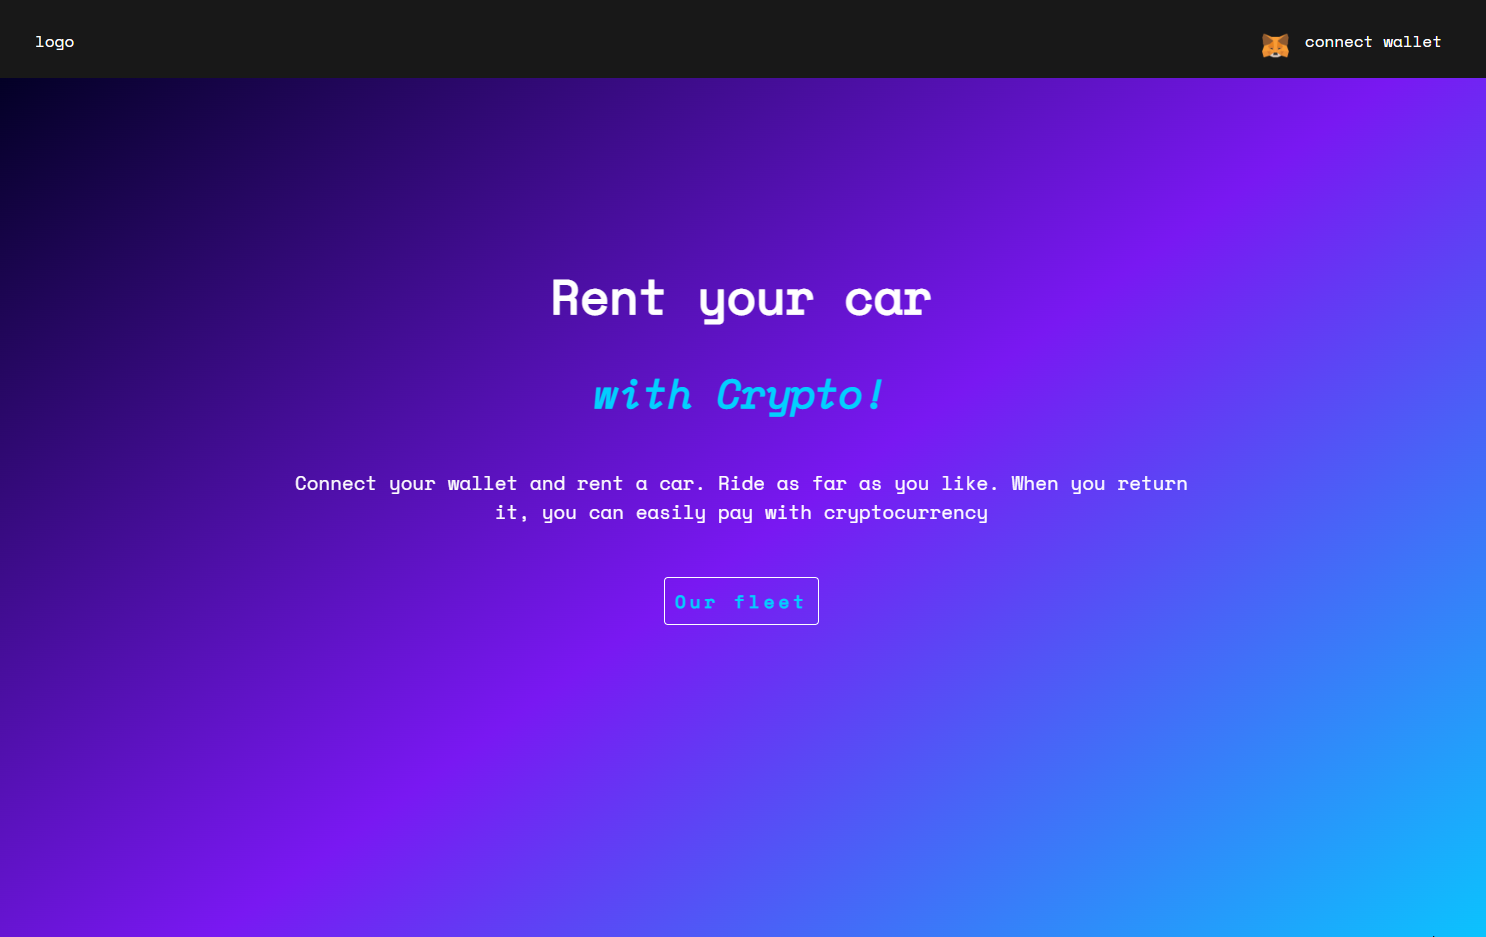
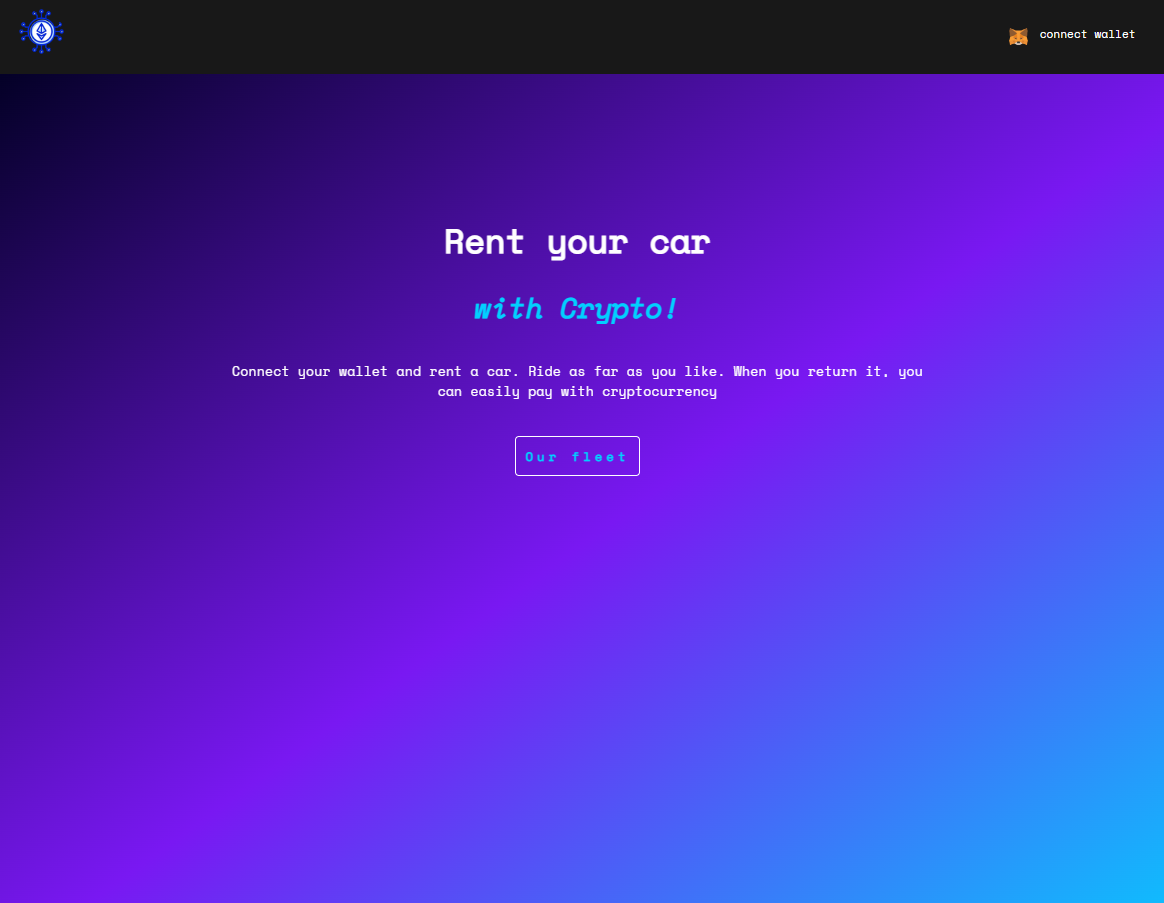
Ready for smart contract integration frontend

diff --git a/frontend/src/components/DashboardFleet.js b/frontend/src/components/DashboardFleet.js
@@ -2,6 +2,9 @@ import "./DashboardFleet.scss";
 import vwPolo from "../assets/vwPolo.png";
 import tucson from "../assets/tucson.png";
 import corolla from "../assets/corolla.png";
+import gear from "../assets/gear.png";
+import AirlineSeatReclineExtraIcon from "@mui/icons-material/AirlineSeatReclineExtra";
+import LuggageIcon from "@mui/icons-material/Luggage";
 
 export default function DashboardFleet() {
   return (
@@ -11,9 +14,16 @@ export default function DashboardFleet() {
           <img className='car-img' src={vwPolo} alt='vw Polo' />
           <div className='car-description'>
             <ul>
-              <li>5 seats</li>
-              <li>manual gear</li>
-              <li> 1 big bag</li>
+              <li>
+                <AirlineSeatReclineExtraIcon />5 seats
+              </li>
+              <li>
+                <img className='gear-icon' src={gear} alt='gear icon' />
+                manual
+              </li>
+              <li>
+                <LuggageIcon />1 bag
+              </li>
             </ul>
           </div>
           <div className='button-box'>
@@ -29,16 +39,23 @@ export default function DashboardFleet() {
           <img className='car-img' src={tucson} alt='hyundai tucson' />
           <div className='car-description'>
             <ul>
-              <li>5 seats</li>
-              <li>manual gear</li>
-              <li>2 big bag</li>
+              <li>
+                <AirlineSeatReclineExtraIcon />5 seats
+              </li>
+              <li>
+                <img className='gear-icon' src={gear} alt='gear icon' />
+                manual
+              </li>
+              <li>
+                <LuggageIcon />2 bags
+              </li>
             </ul>
           </div>
-          <div className='button-box'>
-            <button className='button-class form-deposit-button' type='submit'>
+          <div className='button-box '>
+            <button className='button-class rent-car-button' type='submit'>
               Pick Up
             </button>
-            <button className='button-class form-deposit-button' type='submit'>
+            <button className='button-class rent-car-button' type='submit'>
               Drop off
             </button>
           </div>
@@ -48,16 +65,23 @@ export default function DashboardFleet() {
 
           <div className='car-description'>
             <ul>
-              <li>5 seats</li>
-              <li>automate gear</li>
-              <li>1 big bag</li>
+              <li>
+                <AirlineSeatReclineExtraIcon />5 seats
+              </li>
+              <li>
+                <img className='gear-icon' src={gear} alt='gear icon' />
+                automatic
+              </li>
+              <li>
+                <LuggageIcon className='luggage' />1 bag
+              </li>
             </ul>
           </div>
           <div className='button-box'>
-            <button className='button-class form-deposit-button' type='submit'>
+            <button className='button-class rent-car-button' type='submit'>
               Pick Up
             </button>
-            <button className='button-class form-deposit-button' type='submit'>
+            <button className='button-class rent-car-button' type='submit'>
               Drop off
             </button>
           </div>

diff --git a/frontend/src/components/DashboardFleet.scss b/frontend/src/components/DashboardFleet.scss
@@ -1,7 +1,9 @@
+@import "../App.scss";
 .dashboard-fleet {
   position: relative;
   max-width: 100%;
   max-height: 100%;
+  margin-bottom: 2rem;
   .fleet-container {
     max-width: 100%;
     display: flex;
@@ -12,17 +14,55 @@
     .car-container {
       display: flex;
       width: 25%;
-      //   border: solid 2px black;
-      //   background-color: yellow;
       justify-content: center;
       align-items: center;
       flex-wrap: wrap;
       margin: 0;
       margin-top: 1rem;
+      box-sizing: border-box;
       .car-description {
+        display: flex;
+        justify-content: center;
         width: 100%;
         font-size: 0.9rem;
         overflow-wrap: break-word;
+        text-decoration: none;
+        margin: 1.5rem 0;
+        padding: 1rem 0;
+        color: #fff;
+        scale: 130%;
+        ul {
+          padding: 0;
+          margin: 0;
+          li {
+            list-style: none;
+            padding: 10px 0;
+            overflow: hidden;
+            display: block;
+            position: relative;
+            opacity: 0;
+            animation: fadeInUp 1.2s 1.2s;
+            animation-fill-mode: forwards;
+            clear: both;
+            text-align: left;
+          }
+
+          svg {
+            margin: 0 0.6rem;
+            color: #181818;
+            transform: translateY(25%);
+            scale: 130%;
+          }
+          .gear-icon {
+            margin-right: 0.7rem;
+            margin-left: 0.4rem;
+            position: relative;
+            width: 20px;
+            float: left;
+            transform: translateY(-9%);
+            object-fit: cover;
+          }
+        }
       }
       .car-img {
         width: 100%;
@@ -36,18 +76,29 @@
       .button-box {
         position: relative;
         display: flex;
-        max-width: 90%;
-        box-sizing: border-box;
-        justify-content: space-between;
+        width: 100%;
+        gap: 1rem;
         align-items: center;
         flex-wrap: wrap;
         text-align: center;
         justify-content: center;
         .rent-car-button {
+          flex: 1;
+          border: 1px solid $primary-color;
+          max-width: 96%;
           font-size: 0.8rem;
-          text-align: justify;
+          text-align: center;
+          color: #fff;
         }
       }
     }
+  }
+}
+@media screen and (max-width: 570px) {
+  .rent-car-button {
+    font-size: 0.8rem !important;
+  }
+  .car-description {
+    scale: 100% !important;
   }
 }

diff --git a/frontend/src/components/Navbar.js b/frontend/src/components/Navbar.js
@@ -1,19 +1,20 @@
 import "./Navbar.scss";
 import metamaskLogo from "../assets/metamask.png";
 import { Link } from "react-router-dom";
+import ethereum from "../assets/ethereum.png";
 
 export default function Navbar() {
   return (
-    <div className="navbar">
-      <div className="navbar-wrapper">
-        <div className="left">
-          <Link to="/" className="left-logo">
-            logo
-          </Link>{" "}
+    <div className='navbar'>
+      <div className='navbar-wrapper'>
+        <div className='left'>
+          <Link to='/' className='left-logo'>
+            <img className='logo-img' src={ethereum} />
+          </Link>
         </div>
-        <div className="middle"></div>
-        <div className="right">
-          <img src={metamaskLogo} alt="log"></img>
+        <div className='middle'></div>
+        <div className='right'>
+          <img src={metamaskLogo} alt='log'></img>
           <p>connect wallet</p>
         </div>
       </div>

diff --git a/frontend/src/components/RentCar.scss b/frontend/src/components/RentCar.scss
@@ -7,15 +7,15 @@
     margin-bottom: 4rem;
   }
   .pulpit-stats {
+    max-width: 100%;
     display: flex;
     justify-content: space-around;
     box-sizing: border-box;
     color: #fff;
     flex-wrap: wrap;
-    margin-bottom: 3rem;
+    margin-bottom: 2rem;
     .pulpit-box {
       position: relative;
-      max-width: 100%;
       border: 1px solid black;
       // Height 0 and padding % help in make responsive square
       width: 30%;
@@ -34,7 +34,7 @@
       pre {
         width: 45%;
         padding-left: 8px;
-        font-size: 1.2rem;
+        font-size: 1.6rem;
         text-align: center;
       }
       .pulpit-icon {
@@ -57,7 +57,7 @@
     flex-wrap: wrap;
     color: #181818;
     form {
-      margin-bottom: 1rem;
+      margin-bottom: 1.8rem;
     }
     .payment-input {
       max-width: 100%;
@@ -77,5 +77,7 @@
   .pulpit-icon {
     position: absolute;
     font-size: 350% !important;
+  }
+  .pulpit-payments {
   }
 }

diff --git a/frontend/src/components/Dashboard.js b/frontend/src/components/Dashboard.js
@@ -6,13 +6,13 @@ import RentCar from "./RentCar";
 
 export default function Dashboard() {
   const isConnected = true;
-  const isRegistered = true;
+  const isRegistered = false;
 
   return (
-    <div className="container dashboard-page">
-      <div className="dashboard-top">
+    <div className='container dashboard-page'>
+      <div className='dashboard-top'>
         {!isConnected || !isRegistered ? (
-          <div className="dashboard-form-row">
+          <div className='dashboard-form-row'>
             <DashboardLogin />
             <DashboardForm />
           </div>
@@ -20,7 +20,7 @@ export default function Dashboard() {
           <RentCar />
         )}
       </div>
-      <div className="dashboard-fleet-row">
+      <div className='dashboard-fleet-row'>
         <DashboardFleet />
       </div>
     </div>

diff --git a/frontend/src/App.scss b/frontend/src/App.scss
@@ -6,3 +6,12 @@ body {
   font-family: "Space Mono", monospace;
   overflow-x: hidden;
 }
+
+@media screen and (max-width: 570px) {
+  h1 {
+    font-size: 2rem !important;
+  }
+  .button-class {
+    scale: 80%;
+  }
+}

diff --git a/frontend/src/components/Dashboard.scss b/frontend/src/components/Dashboard.scss
@@ -15,5 +15,6 @@ input {
   padding: 5px 20px;
   box-sizing: border-box;
   text-align: center;
-  box-shadow: 5px 7px 40px 9px #181818;
+  box-shadow: -5px 9px 30px 12px #181818;
+  border-radius: 6px;
 }

diff --git a/frontend/src/components/DashboardLogin.scss b/frontend/src/components/DashboardLogin.scss
@@ -5,8 +5,8 @@
   text-align: center;
   color: #fff;
   h1 {
-    margin-left: 1rem;
+    margin-left: 1.5rem;
     font-size: 1.5rem;
-    margin-right: 1rem;
+    margin-right: 1.5rem;
   }
 }

diff --git a/frontend/src/components/Navbar.scss b/frontend/src/components/Navbar.scss
@@ -36,6 +36,9 @@
       .left-logo {
         text-decoration: none;
         color: #fff;
+        .logo-img {
+          width: 45px;
+        }
       }
     }
     .middle {
